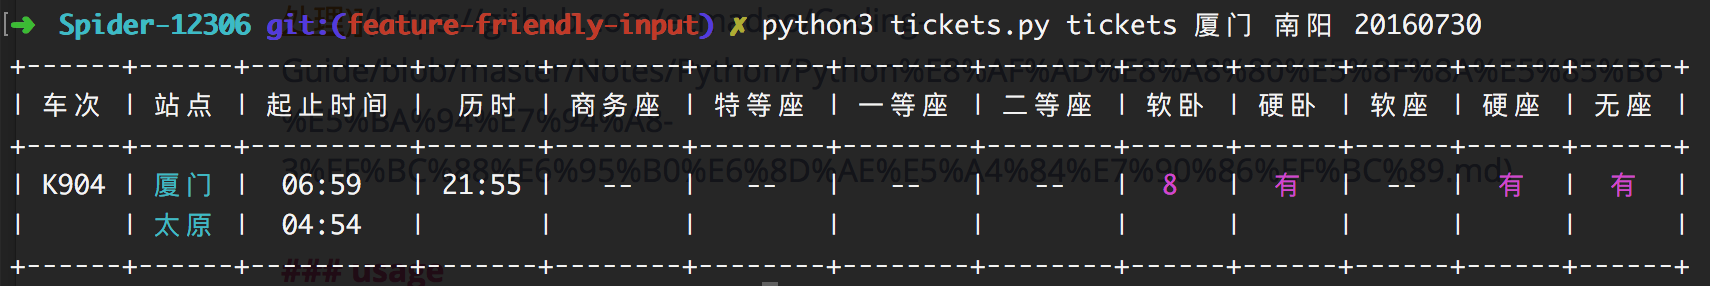
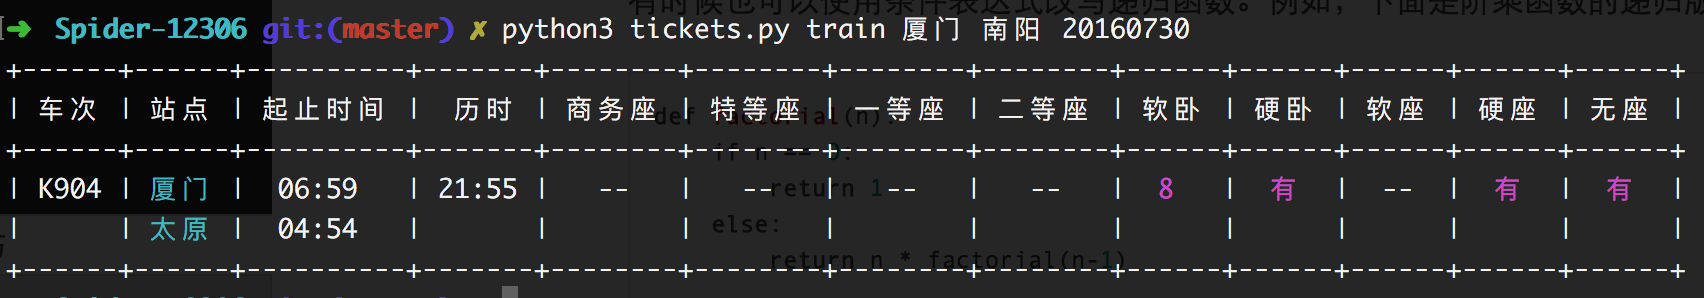
bug-fix

diff --git a/tickets.py b/tickets.py
@@ -1,7 +1,7 @@
 """
 
 Usage:
-    tickets.py tickets [-g | -d | -t | -k | -z] <from> <to> [<date>]
+    tickets.py train [-g | -d | -t | -k | -z] <from> <to> [<date>]
     tickets.py (-h | --help)
 
 Options:
@@ -16,9 +16,9 @@ Options:
     <date>     出发日期, 默认为当日
 
 Examples:
-    tickets 南京 北京 2016-07-18
-    tickets 南京 北京 20160718
-    tickets -g 南京 北京 2016-07-18
+    train 南京 北京 2016-07-18
+    train 南京 北京 20160718
+    train -g 南京 北京 2016-07-18
 """
 from docopt import docopt
 from data import index

diff --git a/README.md b/README.md
@@ -2,7 +2,7 @@
 
 最初的灵感来自于[PROTREAM](https://protream.github.io/)的博客[用Python写一个命令行火车票查看器](https://protream.github.io/post/build-a-command-line-train-tickets-query-tool-with-python/)，感谢他提供的车站名称转换链接，有了那个以后我就屁颠屁颠跑去写着玩了。
 
-### 开发环境：
+### 开发环境
 
 python 3.5
 
@@ -12,19 +12,19 @@ python 3.5
 
 打个广告，[python教程及笔记](https://github.com/ecmadao/Coding-Guide/tree/master/Notes/Python)戳这边，prettytable使用方法可见[Python语言及其应用-3(数据处理)](https://github.com/ecmadao/Coding-Guide/blob/master/Notes/Python/Python%E8%AF%AD%E8%A8%80%E5%8F%8A%E5%85%B6%E5%BA%94%E7%94%A8-3%EF%BC%88%E6%95%B0%E6%8D%AE%E5%A4%84%E7%90%86%EF%BC%89.md)
 
-### usage
+### USAGE
 
 在项目目录下，
 
 ```bash
 $ python3 tickets.py -h # 查看帮助
-$ python3 tickets.py tickets [-g | -d | -t | -k | -z] <from> <to> [<date>] # 查票
+$ python3 tickets.py train [-g | -d | -t | -k | -z] <from> <to> [<date>] # 查票
 ```
 
 example:
 
 ```bash
-$ python3 tickets.py tickets 厦门 南阳 20160730 
+$ python3 tickets.py train 厦门 南阳 20160730 
 # output
 +------+------+----------+-------+--------+--------+--------+--------+------+------+------+------+------+
 | 车次 | 站点 | 起止时间 |  历时 | 商务座 | 特等座 | 一等座 | 二等座 | 软卧 | 硬卧 | 软座 | 硬座 | 无座 |
